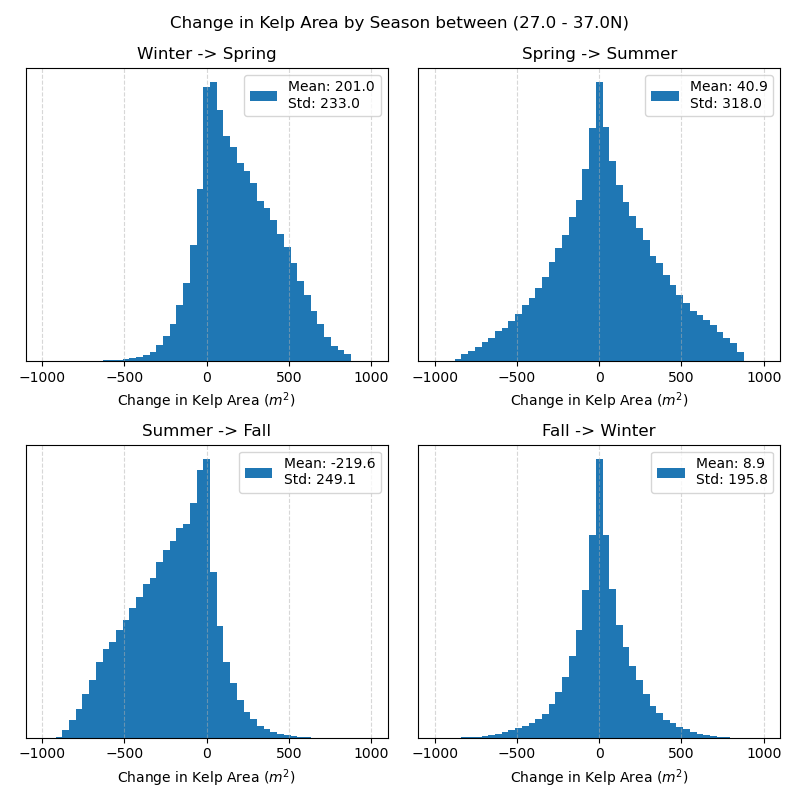
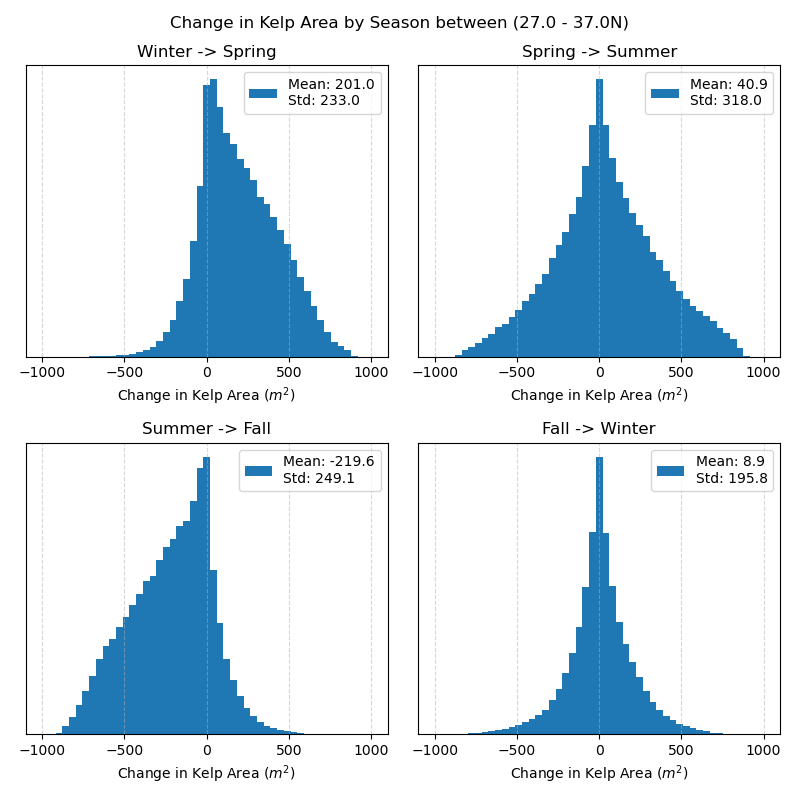
data + notebook example

diff --git a/plot_histogram_kelp.py b/plot_histogram_kelp.py
@@ -49,7 +49,7 @@ if __name__ == "__main__":
     parser = argparse.ArgumentParser()
     parser.add_argument('-f', '--file_path', type=str, 
                         help='path to input metrics file', 
-                        default="Data/kelp_metrics_31_36.pkl")
+                        default="Data/kelp_metrics_27_37.pkl")
     args = parser.parse_args()
 
     # load data from disk
@@ -59,6 +59,7 @@ if __name__ == "__main__":
     # plot time series
     fig, ax, kdata = histogram_kelp(data)
     plt.savefig(args.file_path.replace('.pkl', '_histogram_kelp.png'))
+    print(f"Saved histogram to {args.file_path.replace('.pkl', '_histogram_kelp.png')}")
     plt.close()
 
     # save data to pickle file
